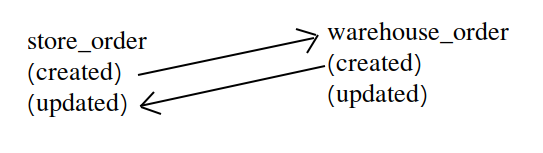
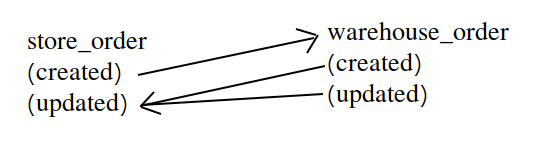
warehouse urls, readme update

Changed region(s): [[0.2652, 0.6013, 0.6188, 0.7059]]

diff --git a/warehouse/api/serializers.py b/warehouse/api/serializers.py
@@ -1,0 +1,27 @@
+from rest_framework.serializers import ModelSerializer
+from warehouse.models import Order
+
+class OrderSerializer(ModelSerializer):
+
+    class Meta:
+        model = Order
+        fields = [
+            'id',
+            'amount',
+            'price',
+            'comment',
+            'created_at',
+            'updated_at',
+            'status',
+        ]
+
+class OrderUpdateSerializer(ModelSerializer):
+
+    class Meta:
+        model = Order
+        fields = [
+            'amount',
+            'price',
+            'comment',
+            'status',
+        ]

diff --git a/warehouse/api/views.py b/warehouse/api/views.py
@@ -1,0 +1,15 @@
+from rest_framework.generics import ListAPIView, RetrieveAPIView, UpdateAPIView
+from warehouse.models import Order
+from .serializers import OrderSerializer, OrderUpdateSerializer
+
+class OrderListView(ListAPIView):
+    queryset = Order.objects.all()
+    serializer_class = OrderSerializer
+
+class OrderRetrieveView(RetrieveAPIView):
+    queryset = Order.objects.all()
+    serializer_class = OrderSerializer
+
+class OrderUpdateView(UpdateAPIView):
+    queryset = Order.objects.all()
+    serializer_class = OrderUpdateSerializer

diff --git a/crestopher/urls.py b/crestopher/urls.py
@@ -19,7 +19,8 @@ from django.contrib.staticfiles.urls import staticfiles_urlpatterns
 
 urlpatterns = [
     path('admin/', admin.site.urls),
-    path('store/', include('store.urls'))
+    path('store/', include('store.urls')),
+    path('warehouse/', include('warehouse.urls')),
 ]
 
 urlpatterns += staticfiles_urlpatterns()  # https://stackoverflow.com/questions/12800862/how-to-make-django-serve-static-files-with-gunicorn

diff --git a/warehouse/urls.py b/warehouse/urls.py
@@ -1,0 +1,9 @@
+
+from django.urls import path, re_path
+from store.api.views import OrderListView, OrderRetrieveView, OrderUpdateView
+
+urlpatterns = [
+    path('orders/', OrderListView.as_view()),
+    re_path(r'^orders/(?P<pk>[0-9a-f-]+)/$', OrderRetrieveView.as_view()),
+    re_path(r'^orders/(?P<pk>[0-9a-f-]+)/update/$', OrderUpdateView.as_view()),
+]

diff --git a/README.md b/README.md
@@ -1,12 +1,31 @@
 # Crestopher
 ## Two way sync between two apps
 
-Backend rest api service that contains two applications: Store & Warehouse. Each of the app has its own database and Order model/table. After store_order being created service creates (through [Celery](http://docs.celeryproject.org/en/latest/)) warehouse_order. If warehouse_order updates its status store_order also would be updated.
+Backend rest api service that contains two applications: **store** & **warehouse**. Each of the app has its own database and **order** model/table. After store_order being created post_save signal is calling [Celery](http://docs.celeryproject.org/en/latest/) task, that make http request to get newly created order, updates its status and then creates warehouse_order. After warehouse_order updates its status store_order also would be updated.
+In other words warehouse_order updates store_order on any update, when store_order updates/creates warehouse_order only it was just created.
+
+
 
 ![how it is pic](closet/scheme1.png "scheme1")
 
+## Problems of two way sync that have been resolved by this solution
+#### When to update:
+First issue to resolve is the moment of synchronization. For example it might be resolved by some schedular module that calls for update every N minutes. But that way there would be always risk of getting not updated data in requests
 
-## Routes to call (store_orders)
+So right moment is right after create/update (current solution)
+
+#### Techical problem of syncronist python (post_save signal freezes admin panel until all actions caused by post request done):
+This project uses Celery that makes async calls
+
+#### Circural updates (a updates b, b updates a, repeat):
+There is clear division of update calling reasons for each model. store_order only creates warehouse_order but never updates it (there might be set of condition to break that rule, like if you create store_order, then delete it, then create store_order with same id). warehouse_order updates store_order only when it is updated (not exactly: warehouse_order updates store_order if warehouse_status was created or updated **and its status isnt default**).
+
+
+#### Problems of broken YAGNI:
+Every new meaningful feature could produce a problem, this project so far respects [YAGNI](https://en.wikipedia.org/wiki/You_aren%27t_gonna_need_it) principle, so its by default resolves all these problems you might have with overdone execution
+
+## Routes to call
+http://0.0.0.0:8000/store/orders   http://0.0.0.0:8000/warehouse/orders
 ```
 urlpatterns = [
     path('orders/', OrderListView.as_view()),
@@ -34,7 +53,7 @@ docker-compose run crestopher python manage.py migrate --database=store
 ```
 docker-compose run crestopher python manage.py shell -c "from django.contrib.auth.models import User; User.objects.filter(email='admin@example.com').delete(); User.objects.create_superuser('admin', 'admin@example.com', 'hard2crack')"
 ```
-4. Now you can create store_order, go to the http://0.0.0.0:8000/admin/store/order/add/  
+4. Login at http://0.0.0.0:8000/admin/ and now to create store_order go to the http://0.0.0.0:8000/admin/store/order/add/  
 **dont change default status though, theres check in code for "some status" that decides if update is needed for store_order**
 
 5. Check logs or view db gui for newly created warehouse_orders
